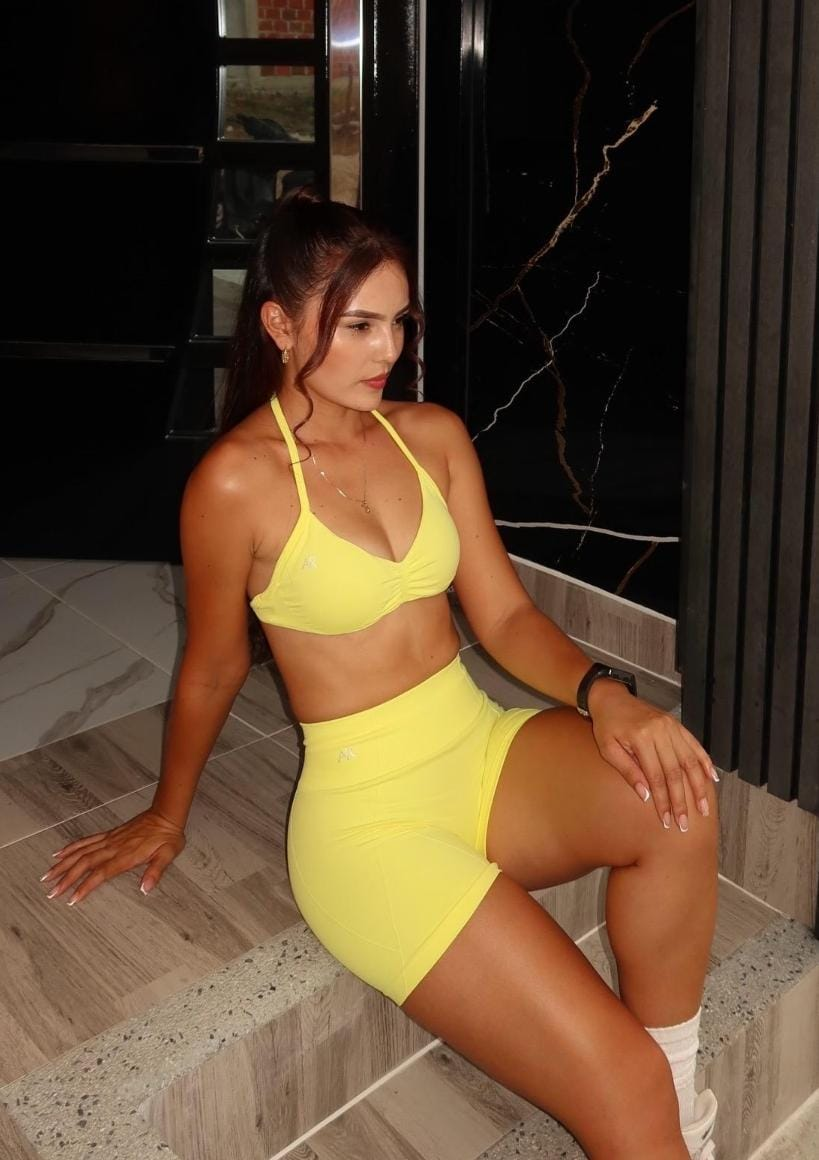
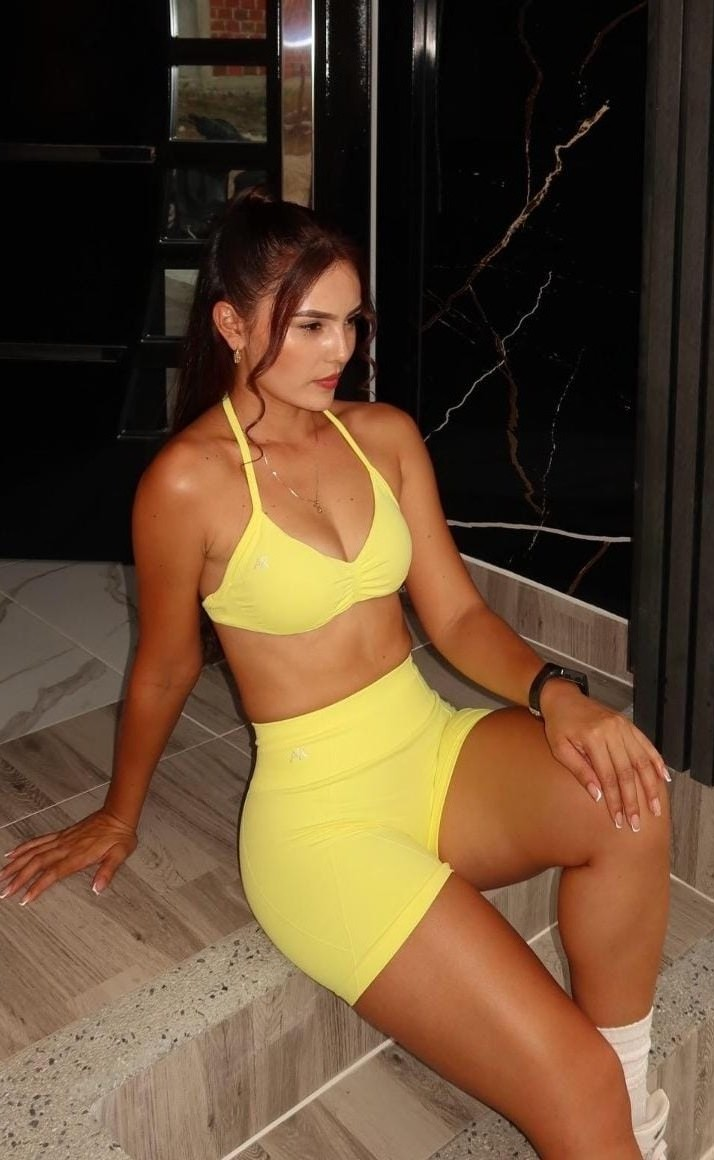
agregamos producto set lima

diff --git a/src/Components/Assets/all_product.js b/src/Components/Assets/all_product.js
@@ -184,9 +184,9 @@ let all_product = [
     image2: enterizoflexazulcielo2,
     image3: enterizoflexazulcielo3,
     image4: enterizoflexazulcielo4,
-    new_price: 110000,
+    new_price: 130000,
     old_price: 140000,
-    offer: true,
+    offer: false,
     sizes: {
       XS: false,
       S: true,
@@ -327,7 +327,7 @@ let all_product = [
     image4: enterizoflexazul4,
     new_price: 130000,
     old_price: 150000,
-    offer: true,
+    offer: false,
     sizes: {
       XS: false,
       S: true,
@@ -347,7 +347,7 @@ let all_product = [
     image4: enterizoevavinotinto4,
     new_price: 130000,
     old_price: 150000,
-    offer: true,
+    offer: false,
     sizes: {
       XS: false,
       S: true,
@@ -479,6 +479,27 @@ let all_product = [
   },
 
   // ---------------------------- Categoria 4 SETS -----------------------------
+  {
+    id: 401,
+    name: "SET LIMA - TONO AMARILLO",
+    category: "sets",
+    description:
+      "Tela completamente acanalada, su efecto push up te hará lucir increible",
+    image: setlimaamarillo1,
+    image2: setlimaamarillo2,
+    image3: setlimaamarillo3,
+    image4: setlimaamarillo4,
+    new_price: 85000,
+    old_price: 100000,
+    offer: false,
+    sizes: {
+      XS: false,
+      S: true,
+      M: true,
+      L: false,
+      XL: false,
+    },
+  },
   {
     id: 404,
     name: "SET EMILY - TONO NEGRO",

diff --git a/src/Components/Assets/new_data.js b/src/Components/Assets/new_data.js
@@ -17,9 +17,9 @@ let new_data = [
     name: "ENTERIZO FLEX - TONO AZUL",
     category: "enterizos",
     image: enterizoflexazulcielo1,
-    new_price: 110000,
+    new_price: 130000,
     old_price: 140000,
-    offer: true,
+    offer: false,
   },
   {
     id: 404,

diff --git a/src/Components/Assets/data.js b/src/Components/Assets/data.js
@@ -27,9 +27,9 @@ let data_product = [
     name: "ENTERIZO FLEX - TONO AZUL",
     category: "enterizos",
     image: enterizoflexazul1,
-    new_price: 110000,
+    new_price: 130000,
     old_price: 150000,
-    offer: true,
+    offer: false,
   },
   {
     id: 120,
